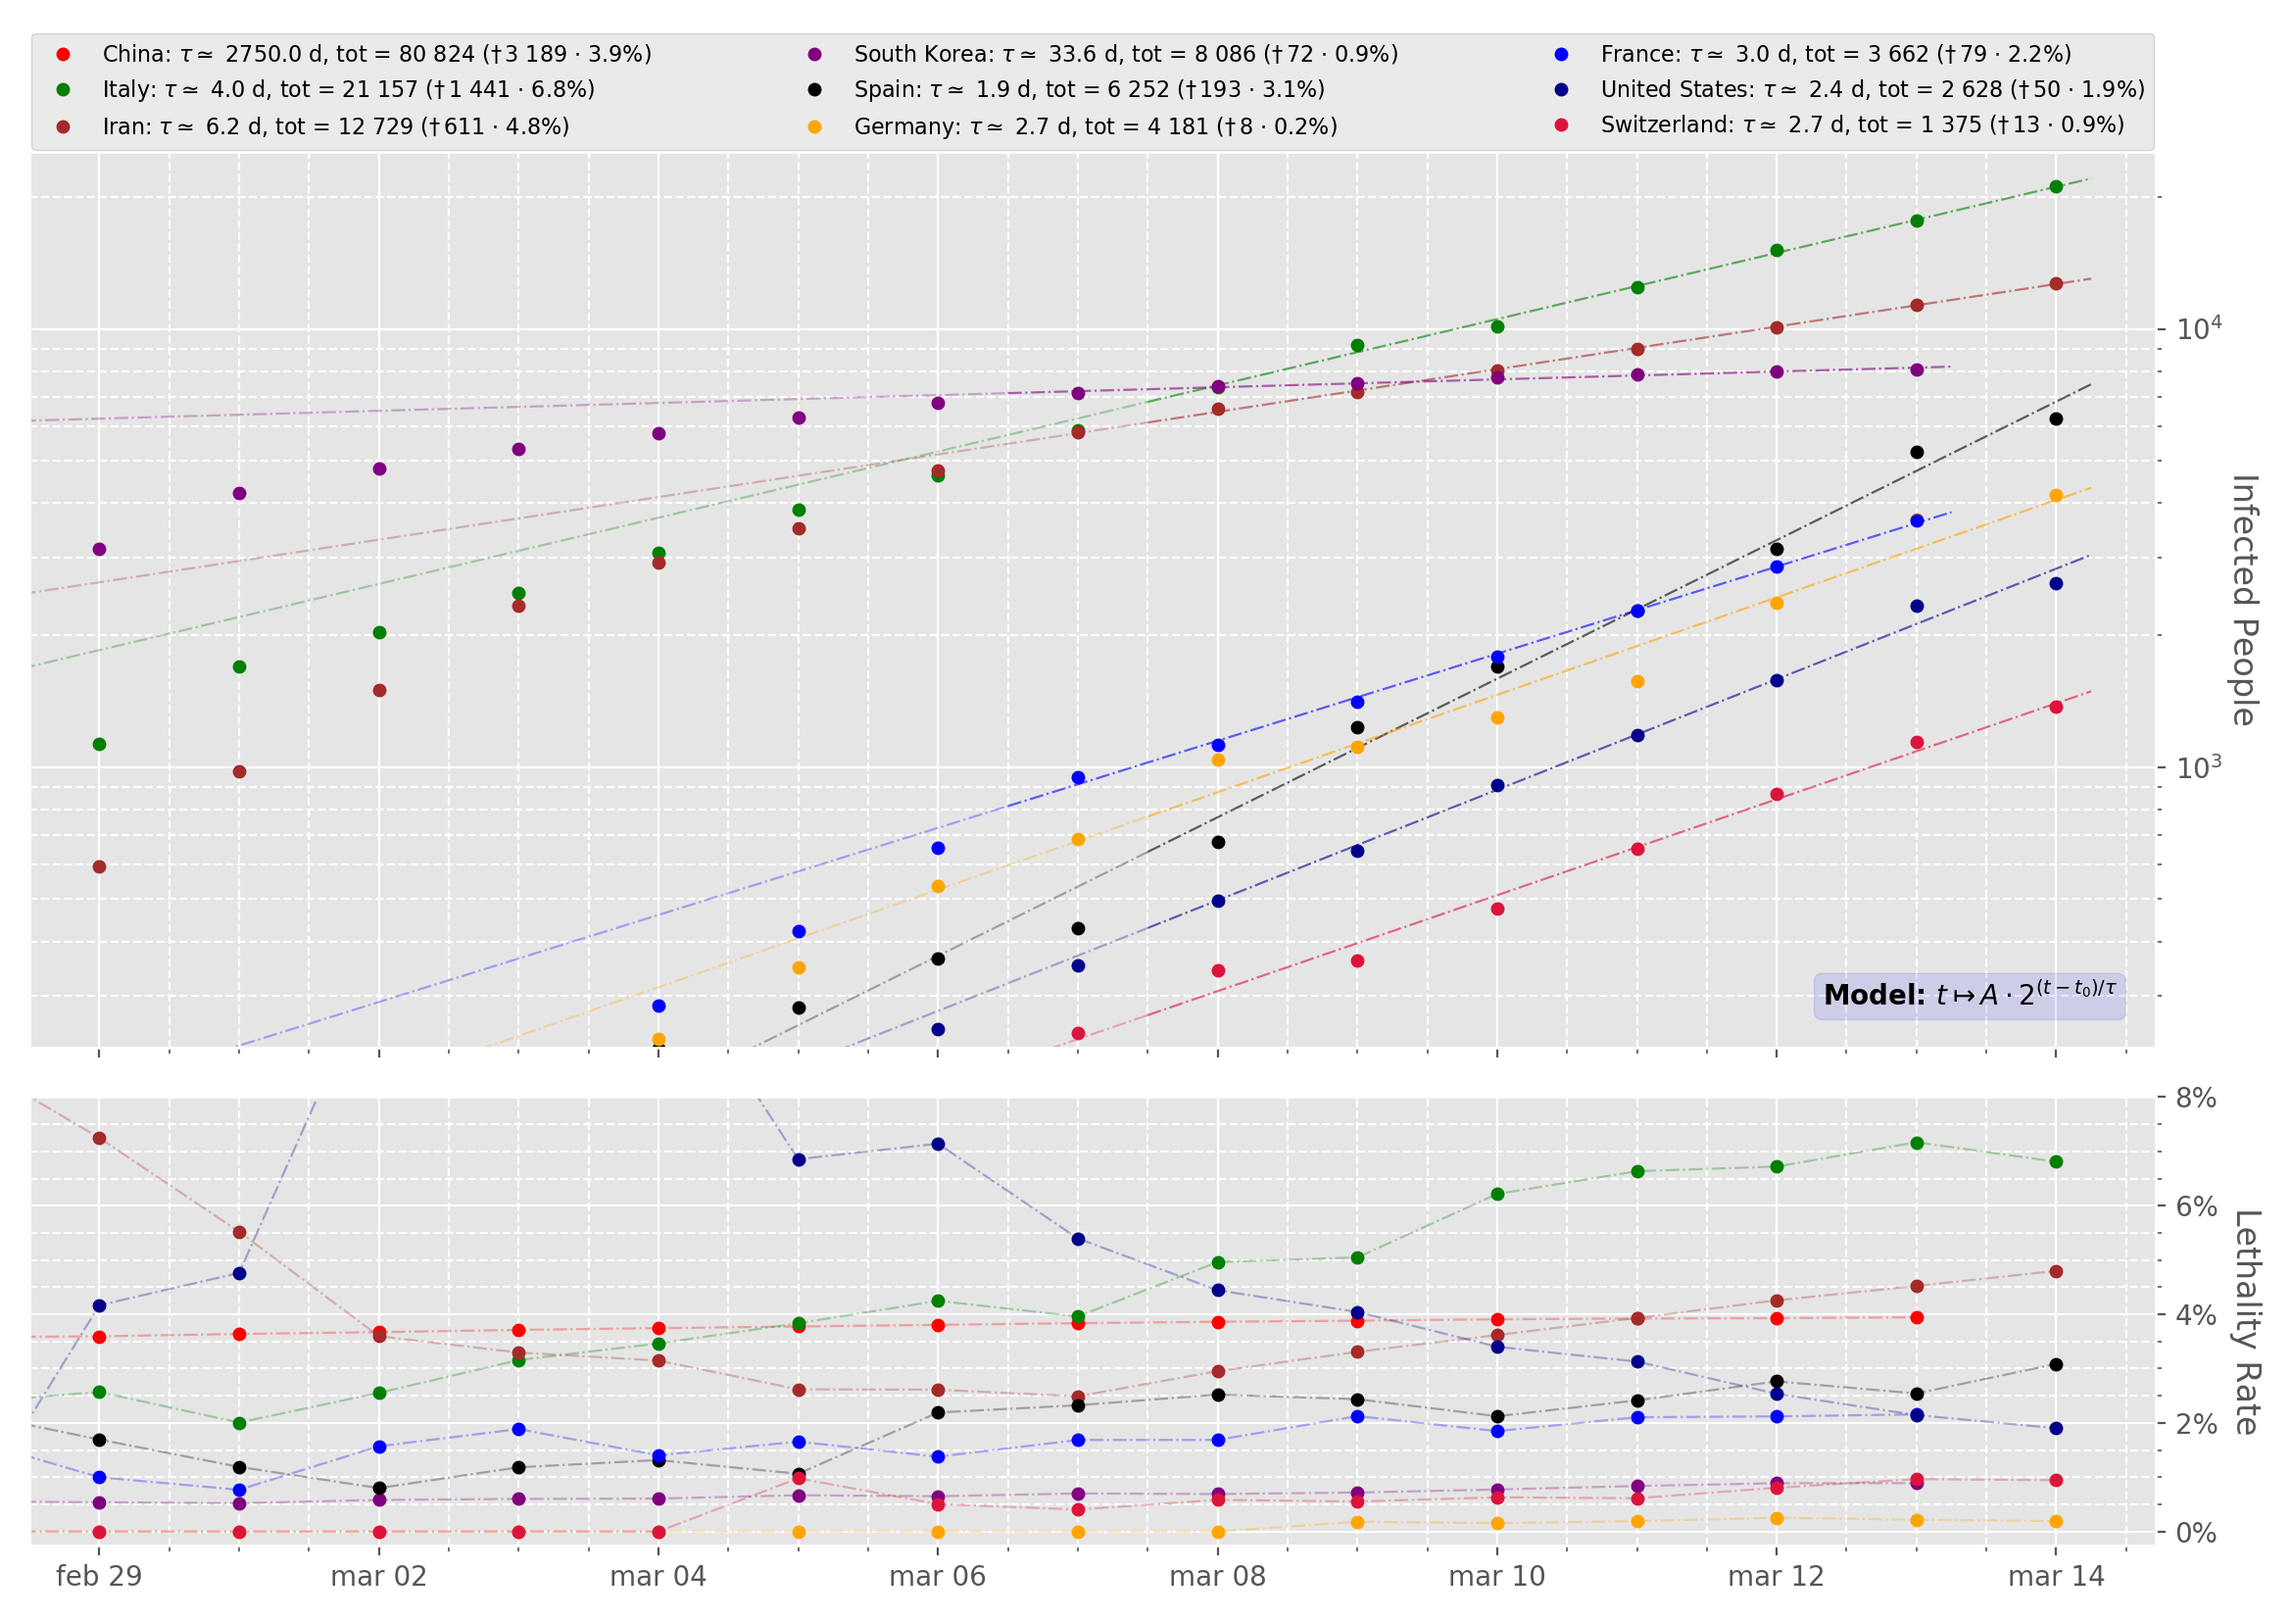
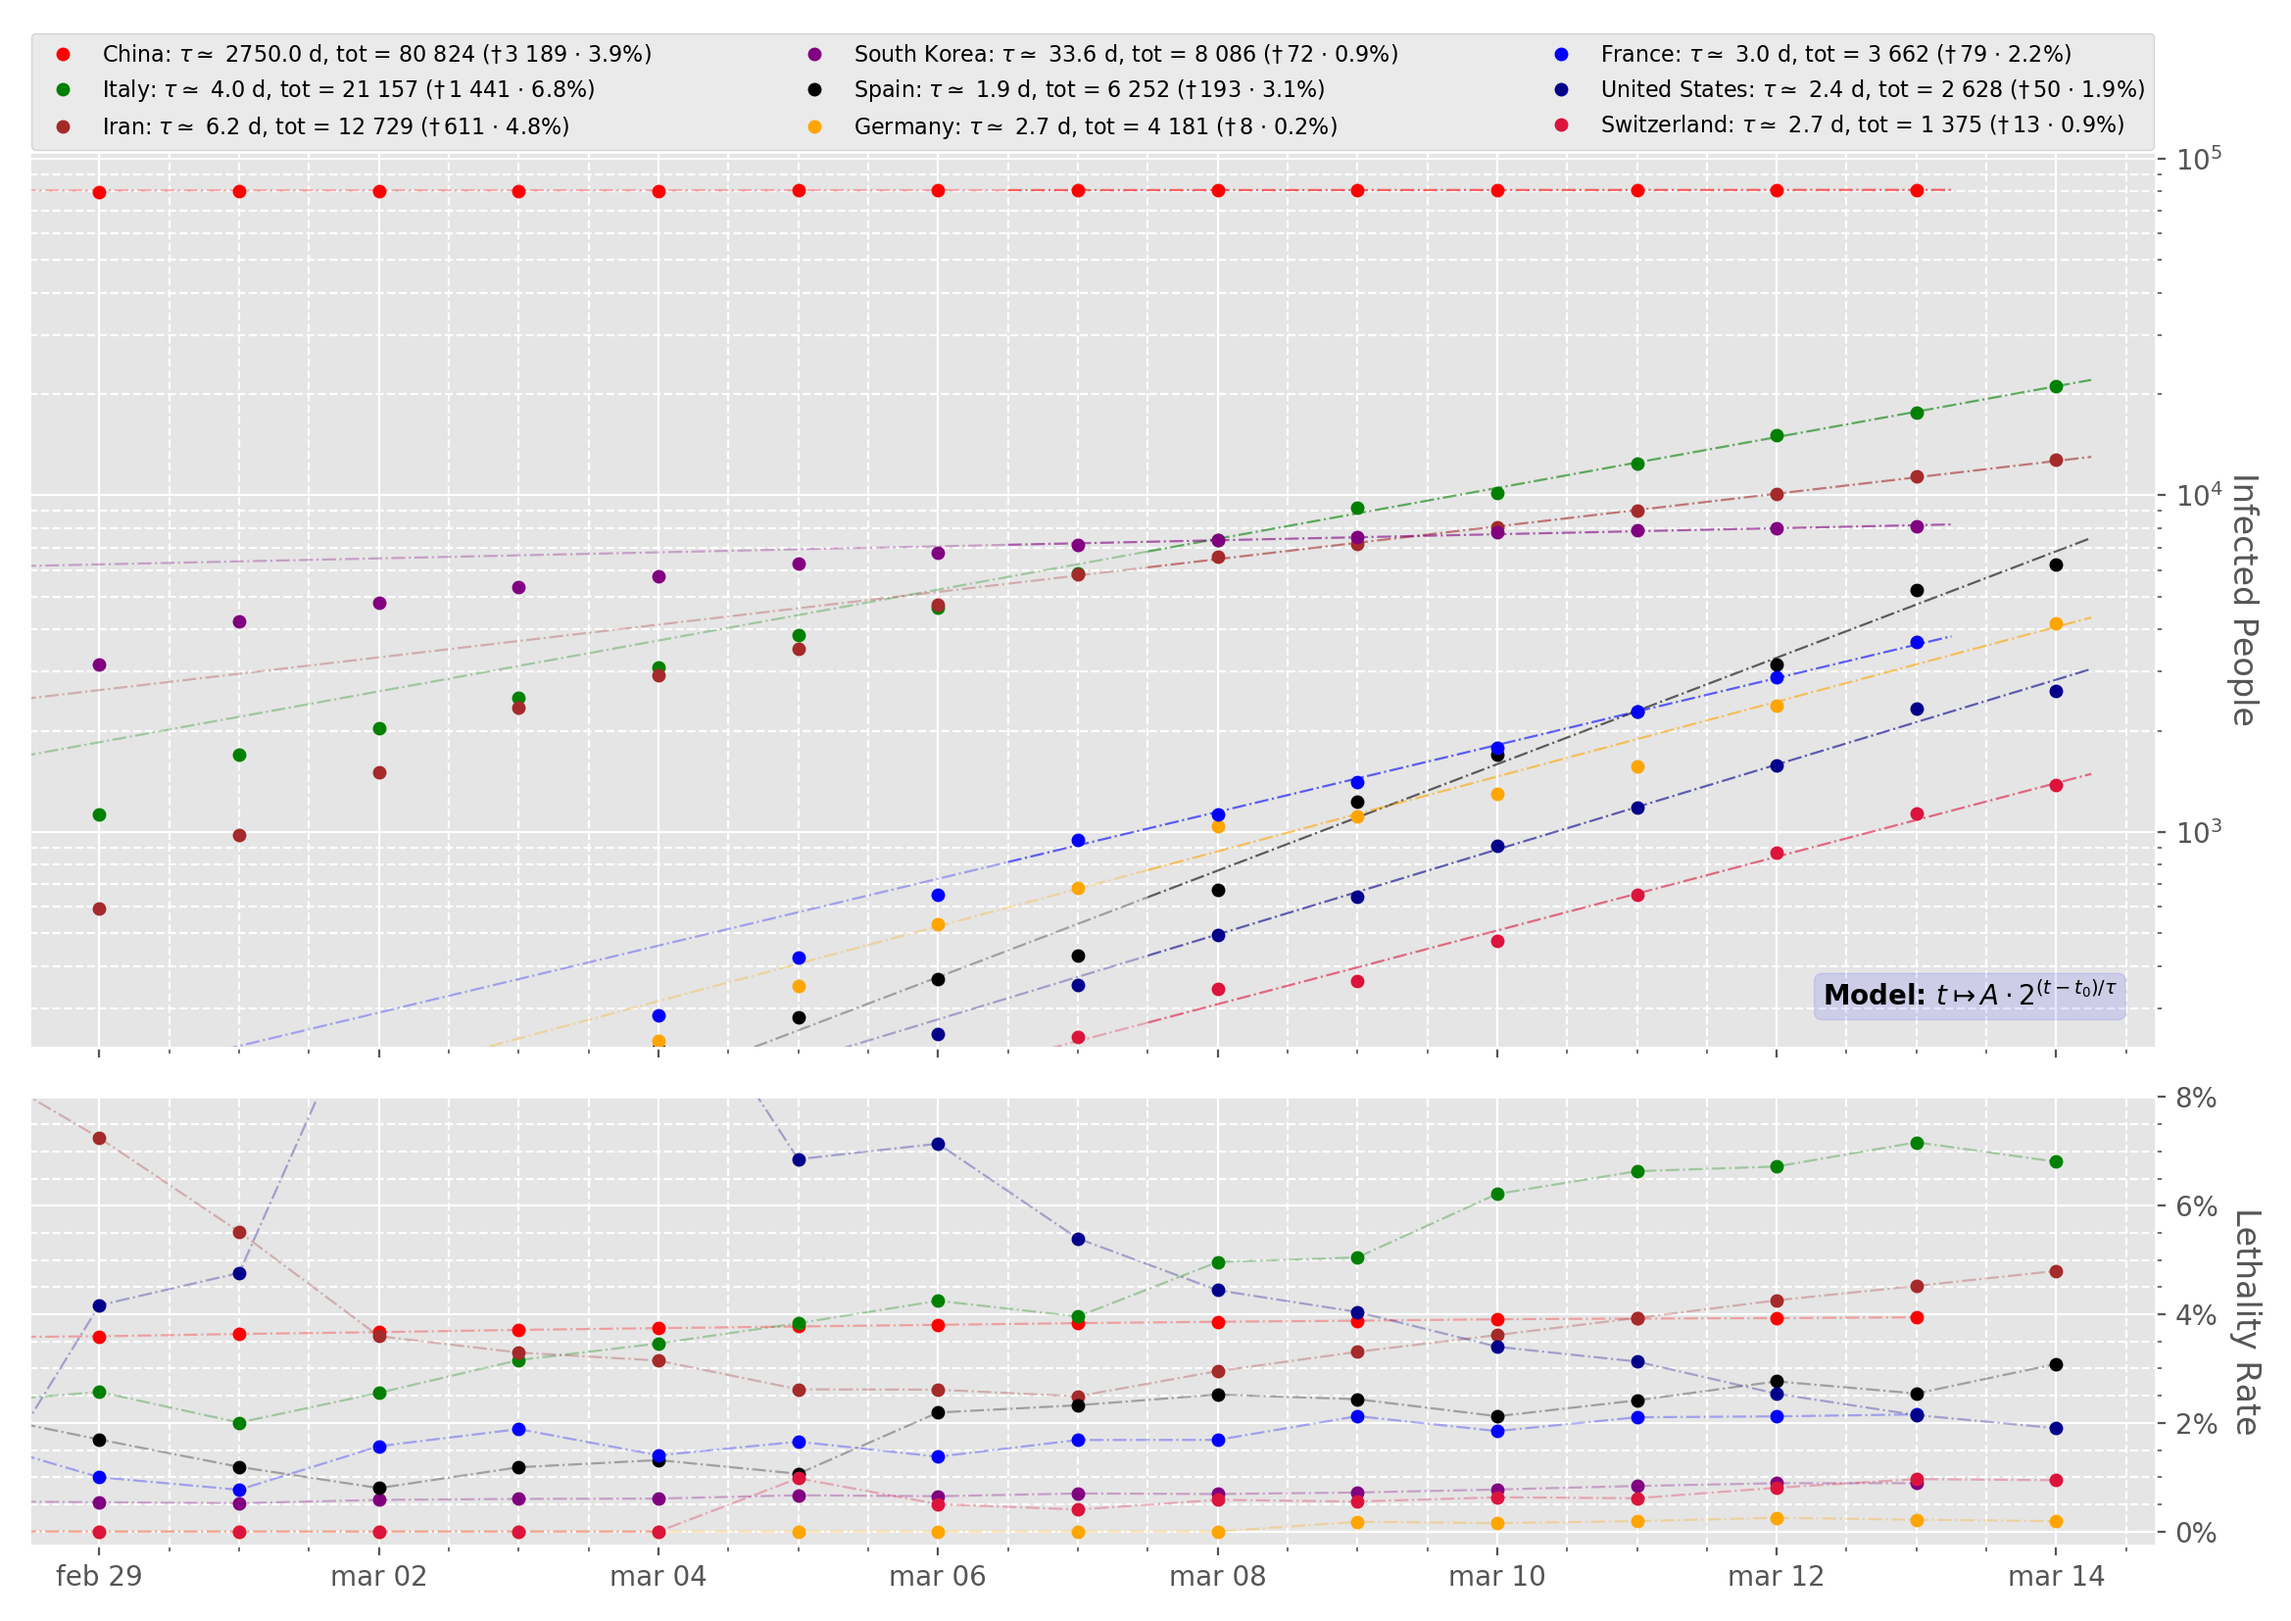
minor commit

diff --git a/Coronavirus/coronavirus.py b/Coronavirus/coronavirus.py
@@ -116,7 +116,7 @@ ax1.xaxis.set_minor_locator(mdates.DayLocator())
 
 ax1.set_yscale("log")
 ax1.set_ylim(bottom=country_ds["tot"].min()/6)
-ax1.set_ylim(top=country_ds["tot"].nlargest(2)[1]*1.2)
+ax1.set_ylim(top=country_ds["tot"].max()*1.3)
 ax1.yaxis.tick_right()
 ax1.set_ylabel("Infected People", rotation=270, labelpad=13)
 ax1.yaxis.set_label_position("right")
